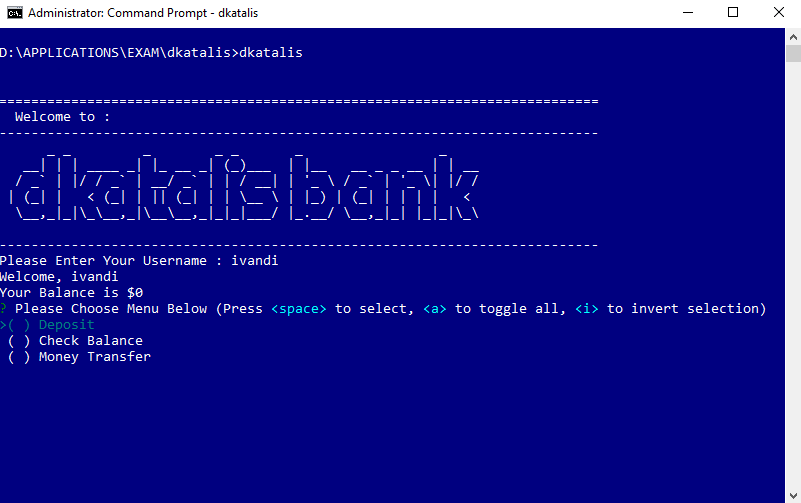
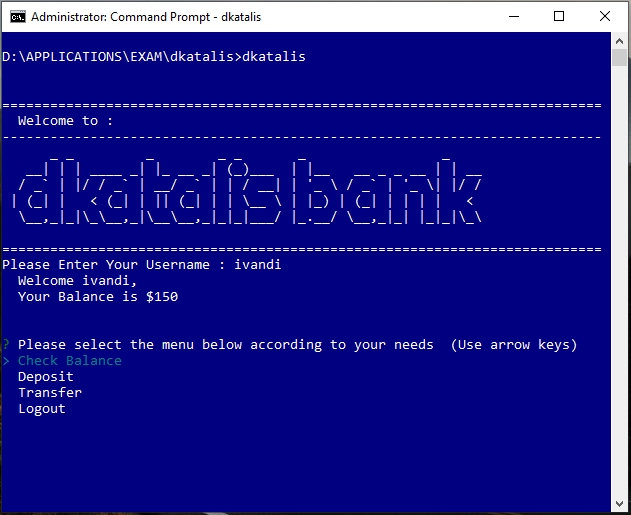
finalize code!!

Changed region(s): [[0.0, 0.0, 1.0, 1.0], [0.6624, 0.2982, 0.7528, 0.4473]]

diff --git a/helpers/json_create.js b/helpers/json_create.js
@@ -16,8 +16,9 @@ const writeFileData = (newValue) => {
       console.log("Error writing file", err);
     } else {
       console.log(
-        `\u00A0 Welcome, ${newValue.name} \nYour Balance is $${newValue.balance}`
+        `\u00A0 Welcome, ${newValue.name} \n\u00A0 Your Balance is $${newValue.balance}`
       );
+      console.log(`\n`);
       nextPrompted(newValue);
     }
   });
@@ -48,8 +49,86 @@ const writeFileDataUpdated = (data, updateValues) => {
   });
 };
 
+const transferAmountToTarget = (data, target, path, newVal) => {
+  const { name, balance } = data;
+  const Tgt = target;
+  const pathTarget = path;
+  const selfPath = `./data/${name}.json`;
+  const xbalance = parseInt(newVal);
+
+  if (parseInt(balance) <= 0) {
+    console.log(
+      `\u00A0 Sorry ${name}, you don't have enough Money, please Deposit before Transfer`
+    );
+  } else if (parseInt(balance) < xbalance) {
+    console.log(
+      `\u00A0 Sorry ${name}, you don't have enough Money, please Deposit before Transfer`
+    );
+  } else {
+    const combineTransferBalanceDataValue = countValues(
+      xbalance,
+      parseInt(balance)
+    );
+    const combineReminingBalanceDataValue = substractValues(
+      parseInt(balance),
+      xbalance
+    );
+    const newBalance = {
+      _id: 1,
+      name: Tgt,
+      balance: combineTransferBalanceDataValue,
+    };
+
+    const remainingBalance = {
+      _id: 1,
+      name,
+      balance: combineReminingBalanceDataValue,
+    };
+
+    updateBalanceTargetValues(
+      pathTarget,
+      newBalance,
+      combineTransferBalanceDataValue
+    );
+
+    updateBalanceRemainingValues(
+      selfPath,
+      remainingBalance,
+      combineReminingBalanceDataValue
+    );
+  }
+};
+
 function countValues(a, b) {
   return a + b;
 }
 
-export { writeFileData, writeFileDataUpdated };
+function substractValues(a, b) {
+  return a - b;
+}
+
+function updateBalanceTargetValues(objPath, objVal, bal) {
+  fs.writeFile(objPath, JSON.stringify(objVal), (err) => {
+    if (err) {
+      console.log("Error writing file", err);
+    } else {
+      return;
+    }
+  });
+}
+
+function updateBalanceRemainingValues(objPath, objVal, bal) {
+  fs.writeFile(objPath, JSON.stringify(objVal), (err) => {
+    if (err) {
+      console.log("Error writing file", err);
+    } else {
+      console.log(
+        `\n\u00A0 Sucessfully Transfered, \n\u00A0 Now Your Balance is $${bal}`
+      );
+      console.log(`\n`);
+      nextPrompted(objVal);
+    }
+  });
+}
+
+export { writeFileData, writeFileDataUpdated, transferAmountToTarget };

diff --git a/helpers/check_path.js b/helpers/check_path.js
@@ -2,14 +2,17 @@
 
 import * as fs from "fs";
 import { logoutPrompt } from "../helpers/prompt_val.js";
+import { transferAmountToTarget } from "../helpers/json_create.js";
 
-const checkIfTargetPathExist = (targetName, pathName, data) => {
+const checkIfTargetPathExist = (targetName, pathName, amountName, data) => {
+  const { name, balance } = data;
   const target = targetName;
   const path = pathName;
+  const amounts = amountName;
 
   try {
     if (fs.existsSync(path)) {
-      return path;
+      transferAmountToTarget(data, target, path, amounts);
     } else {
       console.log(
         `\u00A0 ${target}'s Account doesn't Exist yet, please create an account`

diff --git a/helpers/prompt_val.js b/helpers/prompt_val.js
@@ -81,7 +81,7 @@ const transferAmountPrompt = (data) => {
       const { target, amount } = res;
       const targetPath = `./data/${target}.json`;
 
-      checkIfTargetPathExist(target, targetPath, data);
+      checkIfTargetPathExist(target, targetPath, amount, data);
     });
 };
 
